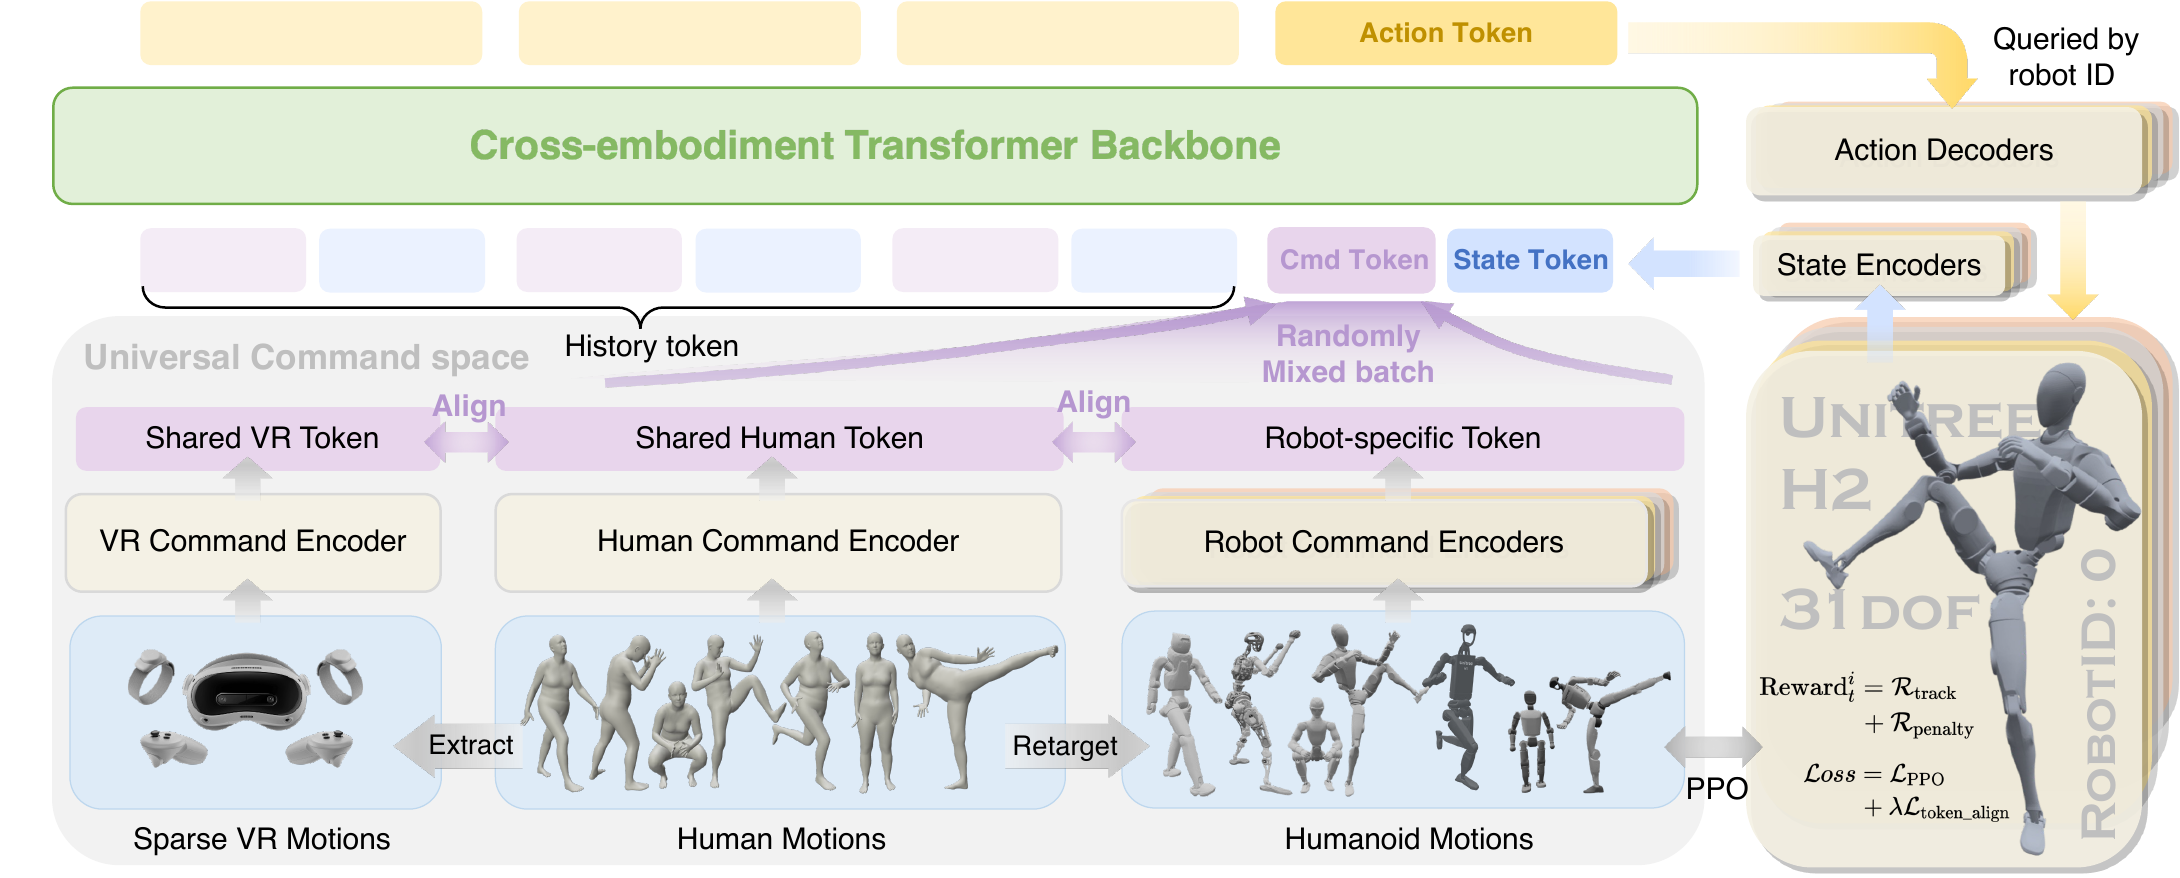
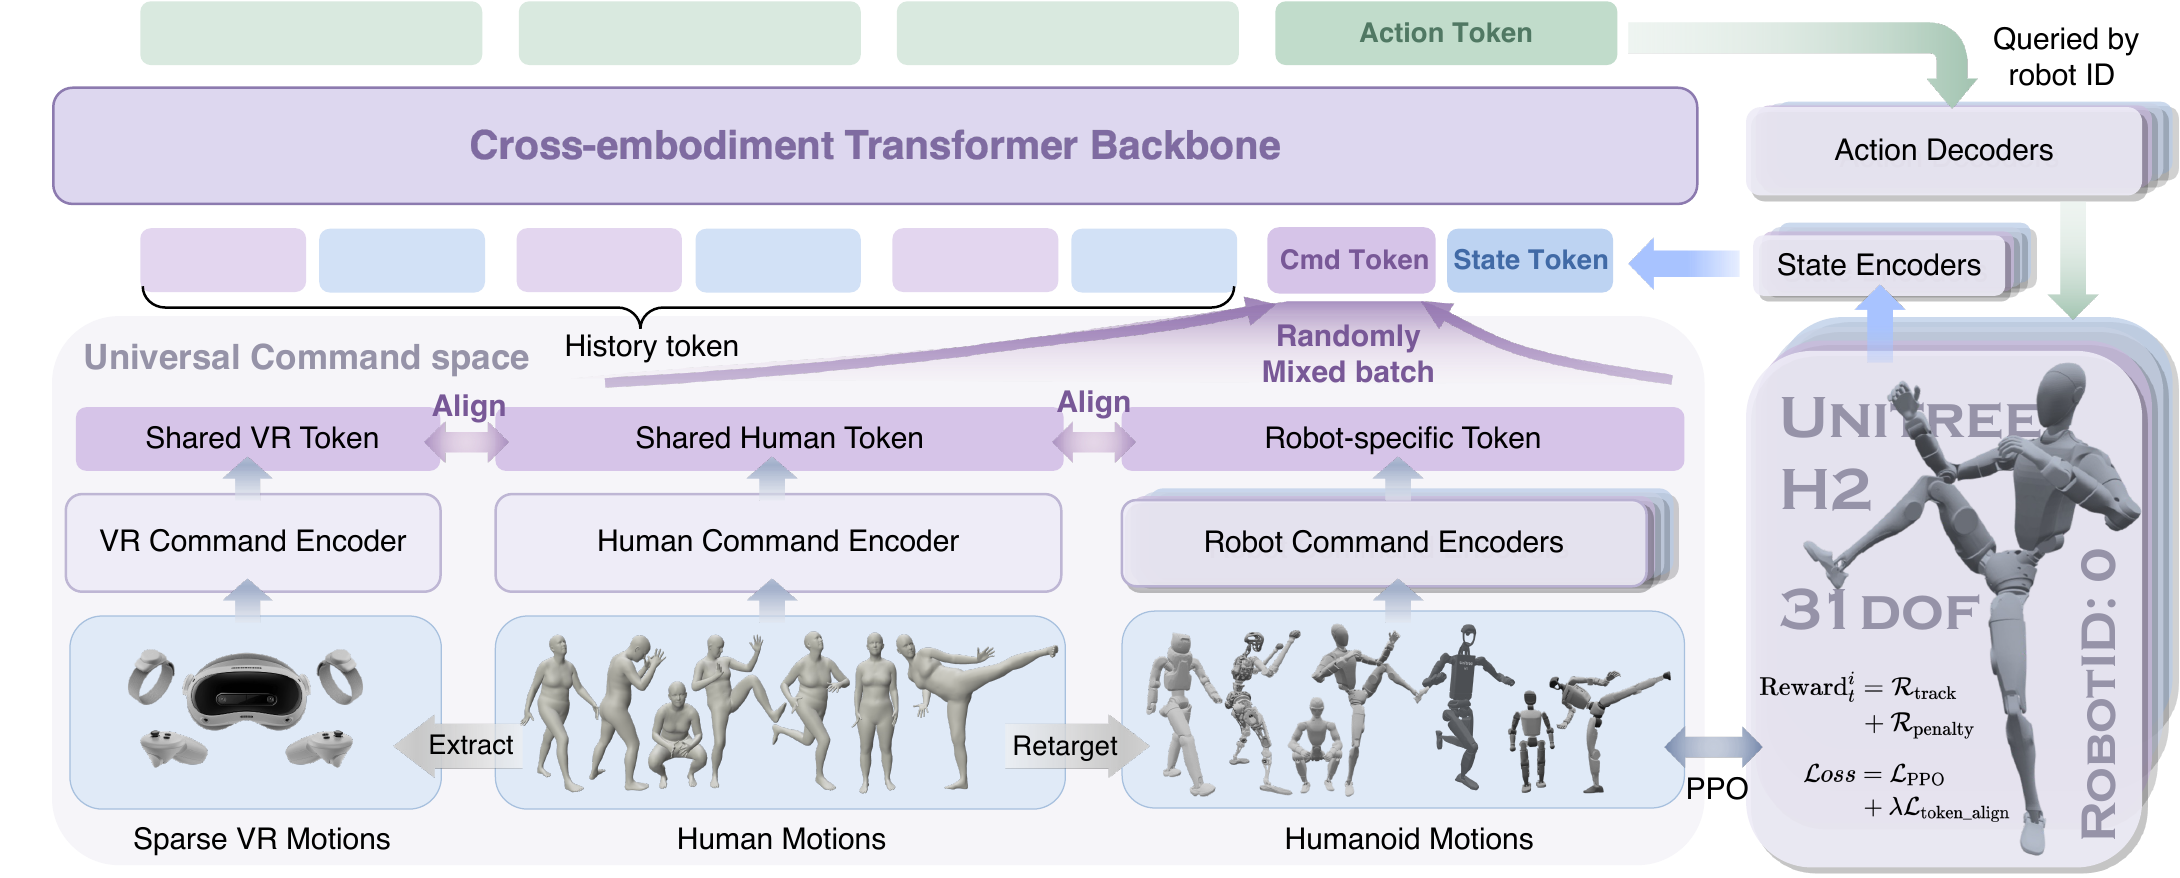
Update the project page pipeline figure

diff --git a/docs/index.html b/docs/index.html
@@ -121,7 +121,7 @@
       </div>
 
       <figure class="image-frame method-figure">
-        <img src="assets/images/pipeline.png" alt="X-WBC architecture with command encoders, shared Transformer backbone, and robot-specific decoders" loading="lazy">
+        <img src="assets/images/pipeline.png?v=2" alt="X-WBC architecture with command encoders, shared Transformer backbone, and robot-specific decoders" loading="lazy">
       </figure>
 
       <div class="feature-grid">
